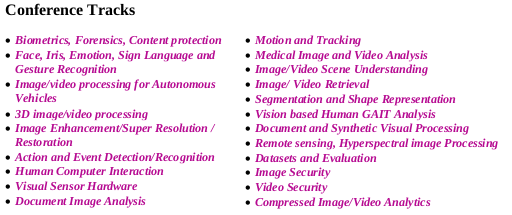
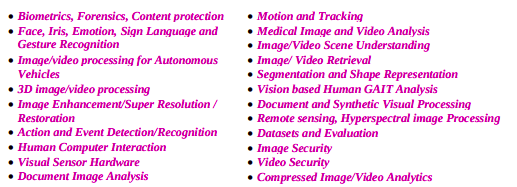
update home

diff --git a/index.html b/index.html
@@ -141,12 +141,19 @@
   </p>
   <p style="font-size:20;font-weight: bold;text-align:justify">CVIP acts as a major forum for presentation of technological progress and research outcomes in the area of Image Processing and Computer Vision serving as a platform for exchanges between academia and industry.</p>
   <br/>
-  <div align="center">
+  <!-- <div align="center">
     <img height="200px" src="images/cvip/track.png"/>
-  </div><br/><br/>
+  </div><br/><br/> -->
   <div align="center">
     <img height="80px" src="images/cvip/dates.png"/>
   </div><br/><br/>
+  <p style="font-size:20;font-weight: bold;text-align:justify">
+    All the accepted and presented papers will be published by Springer Series on
+    Communications in Computer and Information Science (CCIS). All previous editions of CVIP have
+    been successfully published in Springer Book Series. Successfully presented papers
+    are indexed by ISI Proceedings, EI-Compendex, DBLP, SCOPUS, Google Scholar and
+    Springerlink, etc.
+  </p>
   <p style="font-size:20;font-weight: bold;text-align:justify">
     For Paper Submission : <a href="https://cmt3.research.microsoft.com/CVIP2020">Click here</a><br/>
     For Templates and Instructions : <a href="cfp.html">Click here</a>
@@ -157,6 +164,26 @@
 </div>
 </div>
 </section>
+<br/>
+<section class="ftco-section ftco-no-pt ftco-no-pb">
+  <div class="container">
+  <div class="row no-gutters">
+  <!-- <div class="col-md-5 p-md-5 img img-2 d-flex justify-content-center align-items-center" style="background-image: url('images/cvip/ai.jpg');">
+  </div> -->
+  <div class="col-md-12 wrap-about py-md-12 ftco-animate">
+  <div class="heading-section mb-12 pt-12 pl-md-12">
+  <div class="pr-md-12 mr-md-12">
+  <h2 align="center" class="mb-12">Conference Tracks</h2>
+  </div>
+    <br/>
+    <div align="center">
+      <img src="images/cvip/track.png"/>
+    </div><br/><br/>
+  </div>
+  </div>
+  </div>
+  </div>
+  </section>
 <!-- <section class="ftco-section">
 <div class="container">
 <div class="row justify-content-center mb-5">
